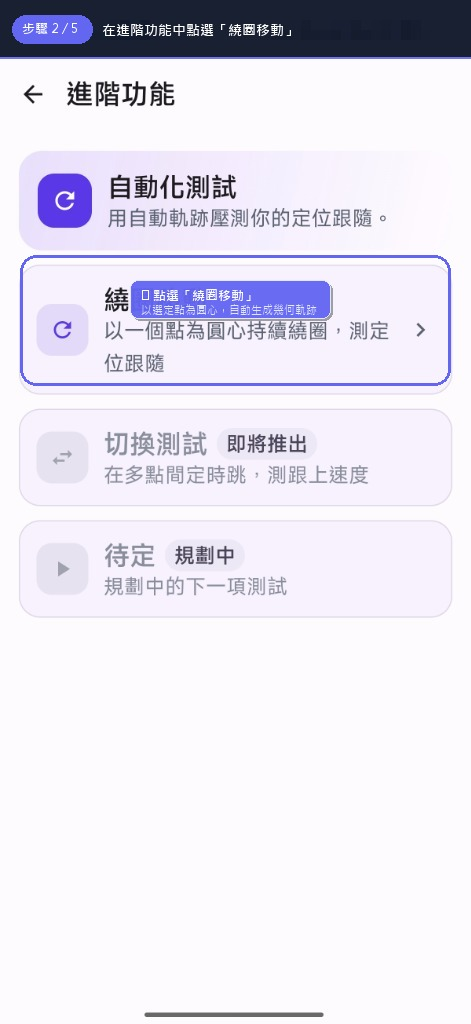
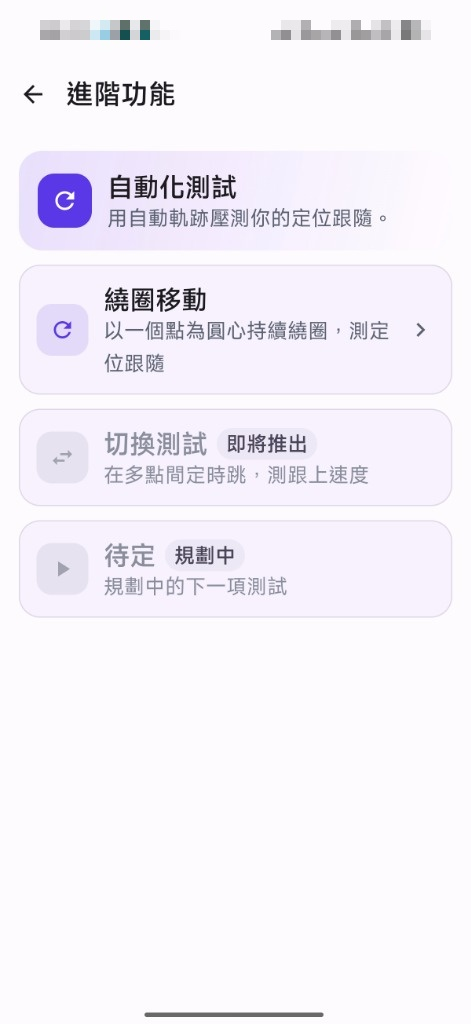
docs(tips): remove overlay text from screenshots, move all instructions to article text with privacy mosaic

diff --git a/tools/update_flower_guide.py b/tools/update_flower_guide.py
@@ -25,33 +25,73 @@ new_content = [
         "text": "以往手動在地圖上一個個打點非常耗時，且走直線折返容易撞上「5 分鐘（300 秒）網格冷卻」白白浪費花瓣。GeoSim 內建了強大的「進階幾何巡航生成器」，只要 5 步即可全自動生成完美大圓閉環，一趟剛好約 9 分 55 秒，冷卻完美解除，徹底解放雙手全自動爆花："
     },
     {
+        "type": "heading",
+        "text": "步驟 1：地圖選定中心點，進入「進階」選單"
+    },
+    {
+        "type": "paragraph",
+        "text": "• 在 GeoSim 地圖上挑選合適的開闊區域（如住家周遭、大型公園或任何想種花的區域），點擊地圖設為「中心點」。<br/>• 接著點擊右下角導覽列的<strong>「進階」</strong>圖示（星星圖標）進入功能列表。"
+    },
+    {
         "type": "image",
         "src": "/images/tips/geosim-circle-step1-center.jpg",
-        "caption": "【步驟 1】在 GeoSim 地圖上挑選合適的開闊區域點選為中心點，點擊右下角「進階」功能選單",
+        "caption": "▲ 步驟 1：在地圖上選定中心點，並點擊右下角的「進階」按鈕進入功能清單",
         "size": "normal"
+    },
+    {
+        "type": "heading",
+        "text": "步驟 2：點選「繞圈移動」功能"
+    },
+    {
+        "type": "paragraph",
+        "text": "• 在進階功能清單中，點選<strong>「繞圈移動」</strong>（以選定點為圓心自動生成幾何巡航軌跡）。"
     },
     {
         "type": "image",
         "src": "/images/tips/geosim-circle-step2-advanced.jpg",
-        "caption": "【步驟 2】在進階功能清單中，點選「繞圈移動」（以選定點為圓心自動生成幾何巡航軌跡）",
+        "caption": "▲ 步驟 2：在進階功能清單中點選「繞圈移動」",
         "size": "normal"
+    },
+    {
+        "type": "heading",
+        "text": "步驟 3：形狀選「圓繞圈」，半徑拉至 475m（關鍵參數！）"
+    },
+    {
+        "type": "paragraph",
+        "text": "• <strong>移動形狀：</strong>點選第一項<strong>「圓繞圈」</strong>（定半徑繞圈）。<br/>• <strong>中心點：</strong>確認為目前選定的座標。<br/>• <strong>半徑設定（核心關鍵）：</strong>將半徑滑桿拉至約 <strong>475 m</strong>。<br/>• <strong>💡 為什麼一定要 475m？</strong> 當半徑設為 475m 時，上方會即時精算出<strong>圓周約 2.98 km，預估一趟耗時 9:55</strong>！這個時間<strong>遠大於遊戲底層 5 分鐘（300 秒）的網格冷卻限制</strong>，當跑完一圈繞回起點時冷卻早已解除，能 100% 毫無浪費地無限自動循環開花！"
     },
     {
         "type": "image",
         "src": "/images/tips/geosim-circle-step3-shape-radius.jpg",
-        "caption": "【步驟 3】移動形狀選「圓繞圈」，將半徑設定為 475 m（上方精算圓周 2.98 km、預估一趟 9:55，遠大於 5 分鐘冷卻，絕不浪費任何花瓣！）",
+        "caption": "▲ 步驟 3：移動形狀選「圓繞圈」，半徑拉至 475m（一趟約 9:55，完美超過 5 分鐘冷卻）",
         "size": "normal"
+    },
+    {
+        "type": "heading",
+        "text": "步驟 4：速度鎖定 18~19 km/h，模式選「循環」"
+    },
+    {
+        "type": "paragraph",
+        "text": "• <strong>速度模式：</strong>切換為<strong>「騎」</strong>，速度滑桿拉至 <strong>18 ~ 19 km/h</strong>。<br/>• <strong>💡 為什麼不能超過 20 km/h？</strong> 《Pikmin Bloom》在 20 km/h 設有防乘車安全中斷線，一旦超速會立即被強制中斷種花；定速在 18~19 km/h 剛好在臨界安全點，能榨出最高 5.75 朵/秒的極限速率！<br/>• <strong>運行模式：</strong>選取<strong>「循環」</strong>（讓系統持續自動繞圈，直到手動停止）。<br/>• （可選）依需求開啟「模擬步數」，邊種花邊累積每日步數。<br/>• 設定完成後，點擊下方藍色按鈕：<strong>「▶ 開始繞圈」</strong>！"
     },
     {
         "type": "image",
         "src": "/images/tips/geosim-circle-step4-speed-loop.jpg",
-        "caption": "【步驟 4】速度切換為「騎」，拉至 18~19 km/h（避開 20 km/h 防超速判定），運行模式選「循環」，點擊「開始繞圈」",
+        "caption": "▲ 步驟 4：速度設定 18~19 km/h，模式切換為「循環」，點擊「▶ 開始繞圈」",
         "size": "normal"
+    },
+    {
+        "type": "heading",
+        "text": "步驟 5：自動生成 24 航點巡航，切回遊戲開種！"
+    },
+    {
+        "type": "paragraph",
+        "text": "• 點擊開始後，GeoSim 會全自動以中心點為基準，在圓周均勻生成 <strong>24 個平滑航點</strong>組成完美大圓，並立即開始依線自動巡航！<br/>• 此時直接切回《Pikmin Bloom》遊戲，確認 40 隻皮克敏滿員出動，點擊<strong>「開始種花」</strong>。<br/>• 手機放著即可全自動高效率穩定狂開花，輕鬆拿滿每日 15,000 朵（60 金幣）與活動挑戰獎勵！"
     },
     {
         "type": "image",
         "src": "/images/tips/geosim-circle-step5-running.jpg",
-        "caption": "【步驟 5】系統自動在圓周均勻生成 24 個平滑航點並開始依線巡航！切回《Pikmin Bloom》點擊開始種花，放著就能全自動狂開花",
+        "caption": "▲ 步驟 5：GeoSim 自動生成 24 航點大圓並開始巡航，切回遊戲點擊開始種花！",
         "size": "normal"
     },
     {
@@ -81,4 +121,4 @@ for t in tips:
 with open(TIPS_FILE, 'w', encoding='utf-8') as f:
     json.dump(tips, f, ensure_ascii=False, indent=2)
 
-print("Successfully updated tips.json with streamlined SOP-focused guide!")
+print("Successfully updated tips.json with text-based step guide and clean images!")

diff --git a/tools/process_clean_mosaic_images.py b/tools/process_clean_mosaic_images.py
@@ -1,0 +1,50 @@
+from PIL import Image, ImageFilter
+import os
+
+def apply_mosaic(im, box, block_size=10):
+    x1, y1, x2, y2 = box
+    r = im.crop((x1, y1, x2, y2))
+    r = r.filter(ImageFilter.GaussianBlur(radius=2))
+    s = r.resize((max(1, (x2 - x1) // block_size), max(1, (y2 - y1) // block_size)), Image.Resampling.NEAREST)
+    m = s.resize((x2 - x1, y2 - y1), Image.Resampling.NEAREST)
+    im.paste(m, (x1, y1))
+
+raw_dir = "C:/Users/kevy_win11/.gemini/antigravity/brain/54b49599-cd6a-4bdf-a92c-1c9393255b72/.user_uploaded"
+out_dir = "app/public/images/tips"
+
+# Image 1
+print("Processing Image 1 (clean with mosaic only)...")
+im1 = Image.open(f"{raw_dir}/media_1792506935733_914c2e80.jpg")
+apply_mosaic(im1, (0, 0, 471, 50), 10) # Status bar
+apply_mosaic(im1, (115, 140, 360, 190), 10) # 未模擬 • 真實定位
+apply_mosaic(im1, (0, 150, 120, 240), 12) # Map river/highway names
+apply_mosaic(im1, (15, 800, 230, 880), 12) # Address & coordinate
+im1.save(f"{out_dir}/geosim-circle-step1-center.jpg", quality=95)
+
+# Image 2
+print("Processing Image 2 (clean with mosaic only)...")
+im2 = Image.open(f"{raw_dir}/media_1792506942119_bdae7fbd.jpg")
+apply_mosaic(im2, (0, 0, 471, 50), 10) # Status bar
+im2.save(f"{out_dir}/geosim-circle-step2-advanced.jpg", quality=95)
+
+# Image 3
+print("Processing Image 3 (clean with mosaic only)...")
+im3 = Image.open(f"{raw_dir}/media_1792506948574_f7b8512b.jpg")
+apply_mosaic(im3, (0, 0, 471, 50), 10) # Status bar
+apply_mosaic(im3, (150, 650, 420, 690), 10) # Center coordinate
+im3.save(f"{out_dir}/geosim-circle-step3-shape-radius.jpg", quality=95)
+
+# Image 4
+print("Processing Image 4 (clean with mosaic only)...")
+im4 = Image.open(f"{raw_dir}/media_1792506955531_3fe345c2.jpg")
+apply_mosaic(im4, (0, 0, 471, 50), 10) # Status bar
+im4.save(f"{out_dir}/geosim-circle-step4-speed-loop.jpg", quality=95)
+
+# Image 5
+print("Processing Image 5 (clean with mosaic only)...")
+im5 = Image.open(f"{raw_dir}/media_1792506962489_56cefc70.jpg")
+apply_mosaic(im5, (0, 0, 471, 50), 10) # Status bar
+apply_mosaic(im5, (0, 110, 80, 220), 12) # Map river/highway names
+im5.save(f"{out_dir}/geosim-circle-step5-running.jpg", quality=95)
+
+print("All 5 images saved cleanly with mosaic only!")
